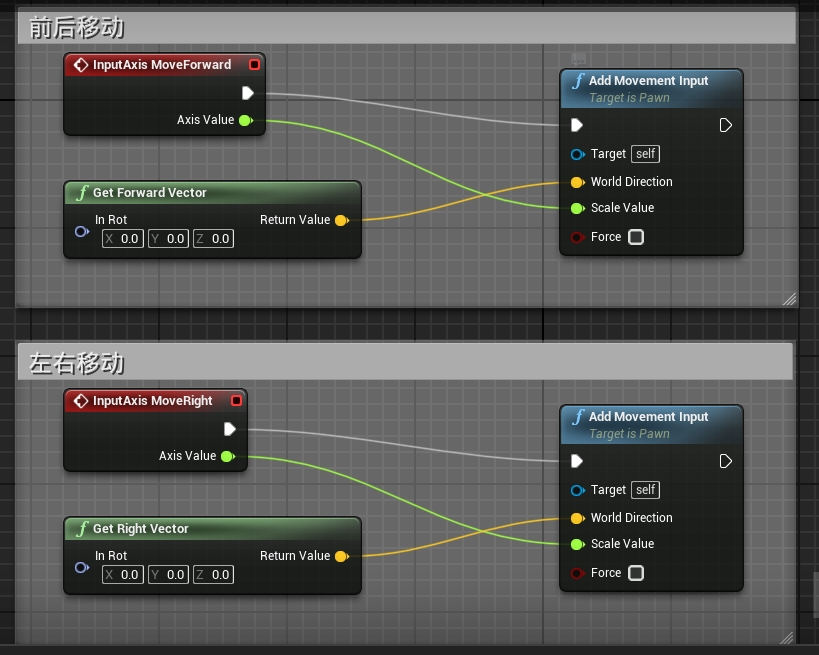
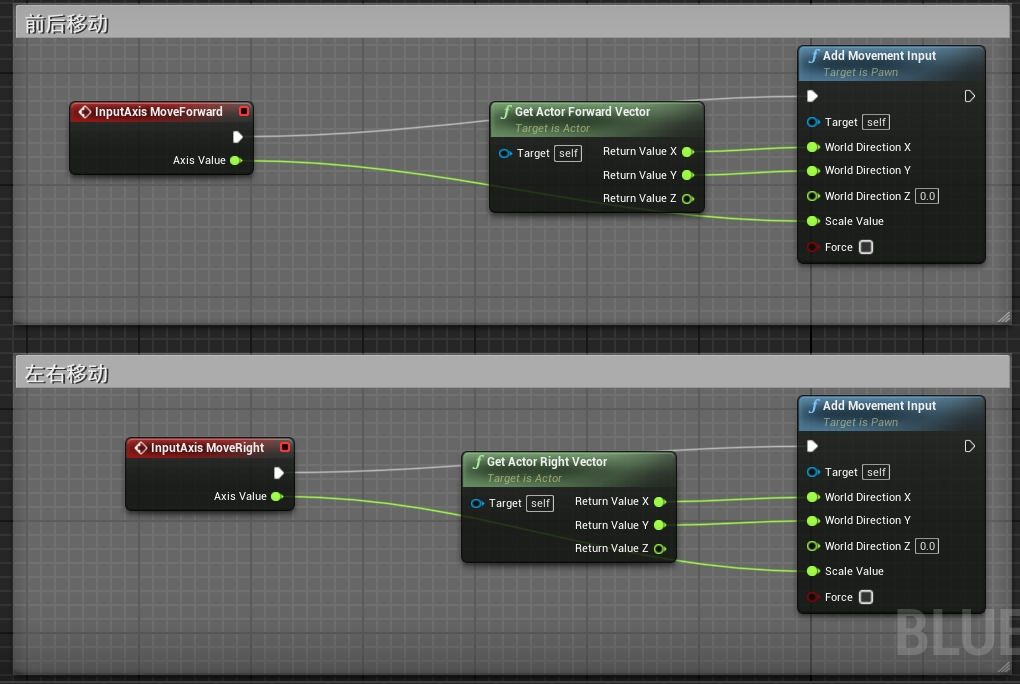
修改视角平移和缩放

diff --git a/docs/ue/building-visualization/cameraMovement.md b/docs/ue/building-visualization/cameraMovement.md
@@ -32,21 +32,23 @@
 ### 4. 实现按键`WASD`移动
 
 ![图片](./image/cameraMovement%20(5).png)
+不添加Z轴的值，是为了限制不随着视角移动改变高度。
 > `InputAxis MoveForward` 就是我们设置好的前后移动轴映射；
 > `AddMovementInput` 为添加移动距离的事件；
-> `GetForwardVector` 为获取前后方向距离的向量;
+> `GetActorForwardVector` 为获取前后方向距离的向量;
 
 ### 5. 实现按住鼠标左键移动
 左右移动：
 ![图片](./image/cameraMovement%20(6).png)
-
 前后移动：
 ![图片](./image/cameraMovement%20(7).png)
+
 
 ### 6. 实现按住右键旋转
 当角色（摄像机）左右旋转的时候，Z轴会发生变化，所以我们只需要设置Z轴的旋转值就可以了。同理，上下旋转的时候，只修改Y值就可以了
 ![图片](./image/cameraMovement%20(8).png)
 > 注意：这里需使用`SetWorldRotation`而不是`AddWorldRotation`，因为浮点数0.0不绝对为0，所以`AddWorldRotation`会使X轴不断变化。
+`SetWorldRotation`节点的`Target`需要是`SceneRoot`，不能是`camera`，不然会影响缩放功能，同理，也不能用`SetActorRotation`
 
 ### 7. 实现滑轮缩放画面
 添加弹簧臂，并设置相机旋转完成后有个滞后效果。
